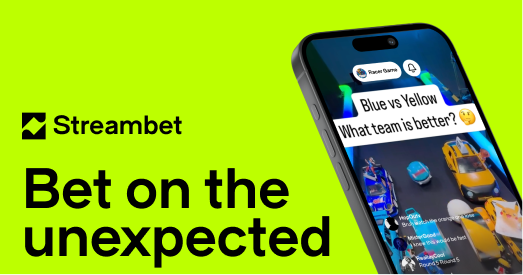
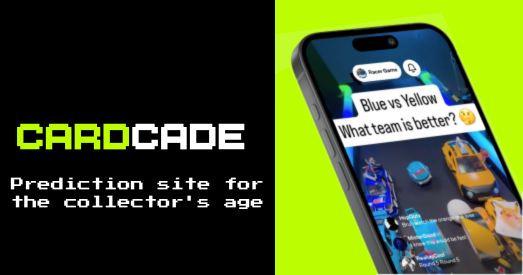
updates metadata

diff --git a/index.html b/index.html
@@ -7,23 +7,23 @@
       content="width=device-width, initial-scale=1.0, maximum-scale=1.0, user-scalable=no"
     />
     <title>CardCade</title>
-    <meta name="description" content="CardCade - Live video picks" />
+    <meta name="description" content="Prediction site for the collectors age" />
     <meta name="author" content="CardCade" />
 
     <!-- Open Graph / Social Media sharing tags -->
-    <meta property="og:title" content="CardCade - Live video picks" />
-    <meta property="og:description" content="Pick on live streams in real-time with CardCade" />
+    <meta property="og:title" content="CardCade - Predictions" />
+    <meta property="og:description" content="Prediction site for the collectors age" />
     <meta property="og:image" content="/lovable-uploads/socialshare.png" />
-    <meta property="og:url" content="https://streambet.lovable.app" />
+    <meta property="og:url" content="https://cardcade.fun" />
     <meta property="og:type" content="website" />
 
     <!-- Twitter Card tags -->
     <meta name="twitter:card" content="summary_large_image" />
-    <meta name="twitter:title" content="CardCade - Live video picks" />
-    <meta name="twitter:description" content="Pick on live streams in real-time with CardCade" />
+    <meta name="twitter:title" content="CardCade" />
+    <meta name="twitter:description" content="Prediction site for the collectors age" />
     <meta
       name="twitter:image"
-      content="/lovable-uploads/f073d284-30de-4f35-aa05-ad54421c736d.png"
+      content="/lovable-uploads/socialshare.png"
     />
 
     <meta name="google-site-verification" content="XY_A9UqrbHzkJJis4c6D6WPXImWt8DMzd5cpobscCms" />
